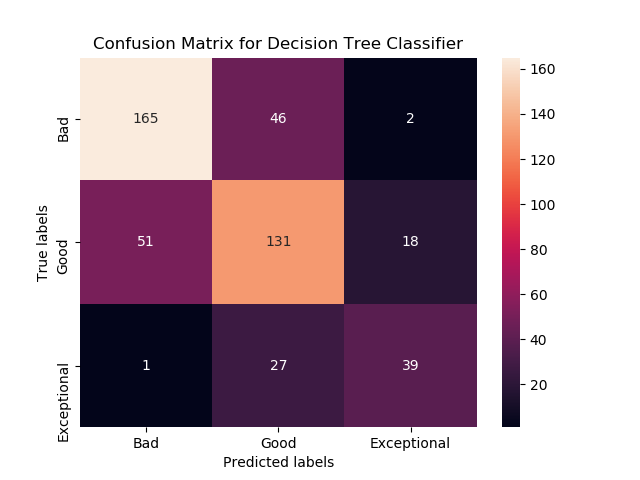
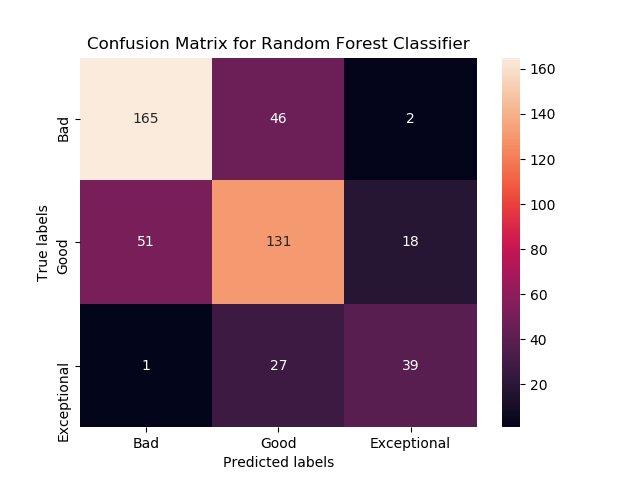
Editted Random Forest Matrix

Changed region(s): [[0.125, 0.0625, 0.75, 0.125]]

diff --git a/Models.py b/Models.py
@@ -151,7 +151,7 @@ rf.fit(X_train, y_train)
 rf_predict = rf.predict(X_test)
 
 #Evaluate Random Forest:
-#Evaluate the X test set for Decision Tree Classifier:
+#Evaluate the X test set for Random Forest Classifier:
 rf_matrix = confusion_matrix(y_test, rf_predict)
 rf_acc = accuracy_score(y_test, rf_predict)
 print('Random Forest Accuracy:')
@@ -161,7 +161,7 @@ ax.remove()
 ax= plt.subplot()
 ax6 = sns.heatmap(rf_matrix, annot=True, fmt='g', ax = ax);
 ax6.set_xlabel('Predicted labels');ax.set_ylabel('True labels');
-ax6.set_title('Confusion Matrix for Decision Tree Classifier');
+ax6.set_title('Confusion Matrix for Random Forest Classifier');
 ax6.xaxis.set_ticklabels(['Bad', 'Good','Exceptional']); ax.yaxis.set_ticklabels(['Bad', 'Good','Exceptional']);
 fig6 = ax6.get_figure()
 fig6.savefig('RandomForestConfusionMatrix.png')
